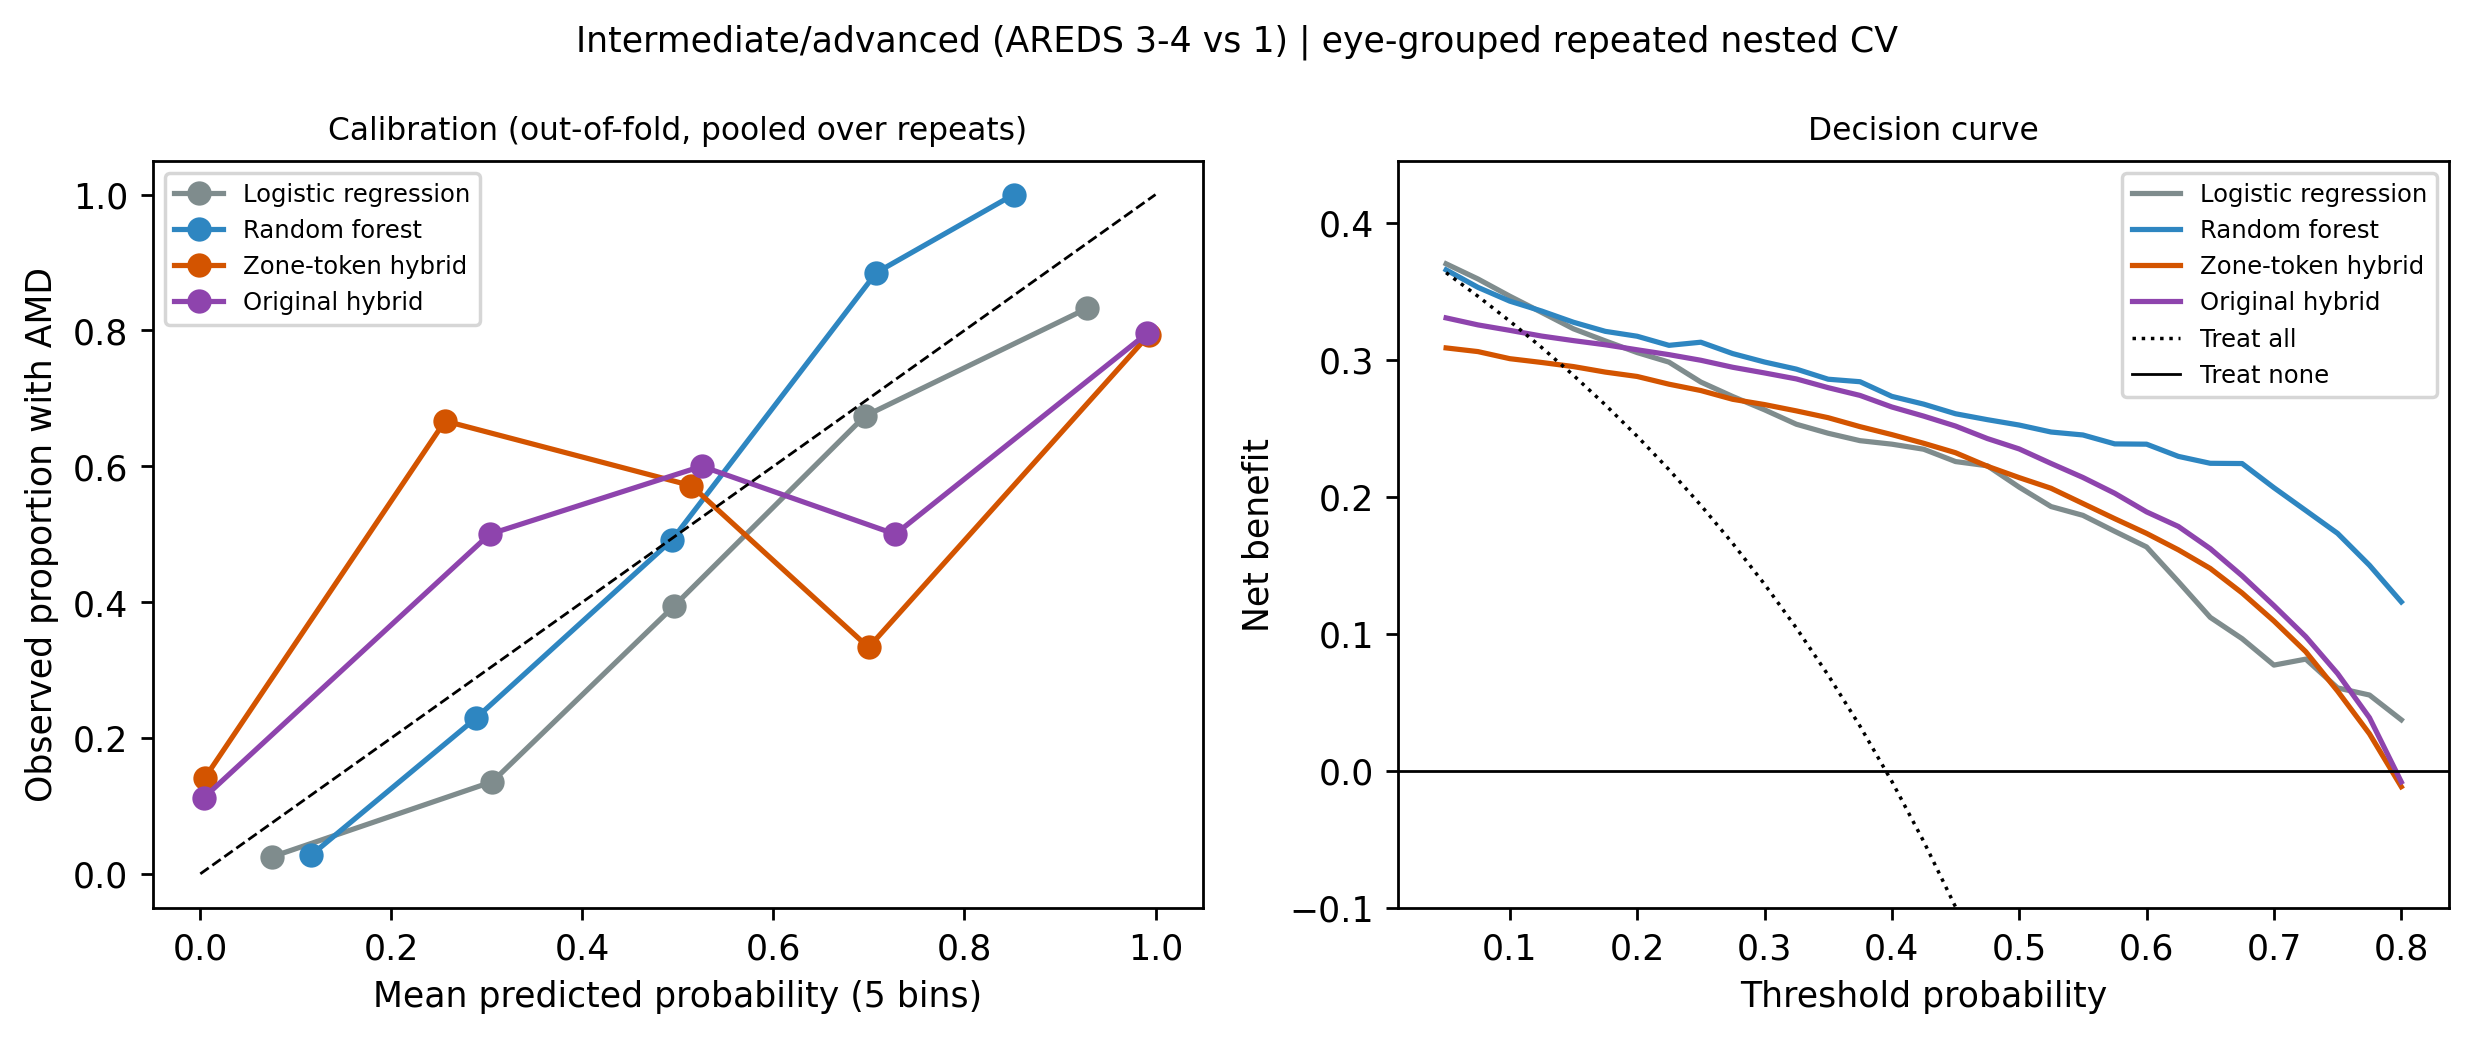
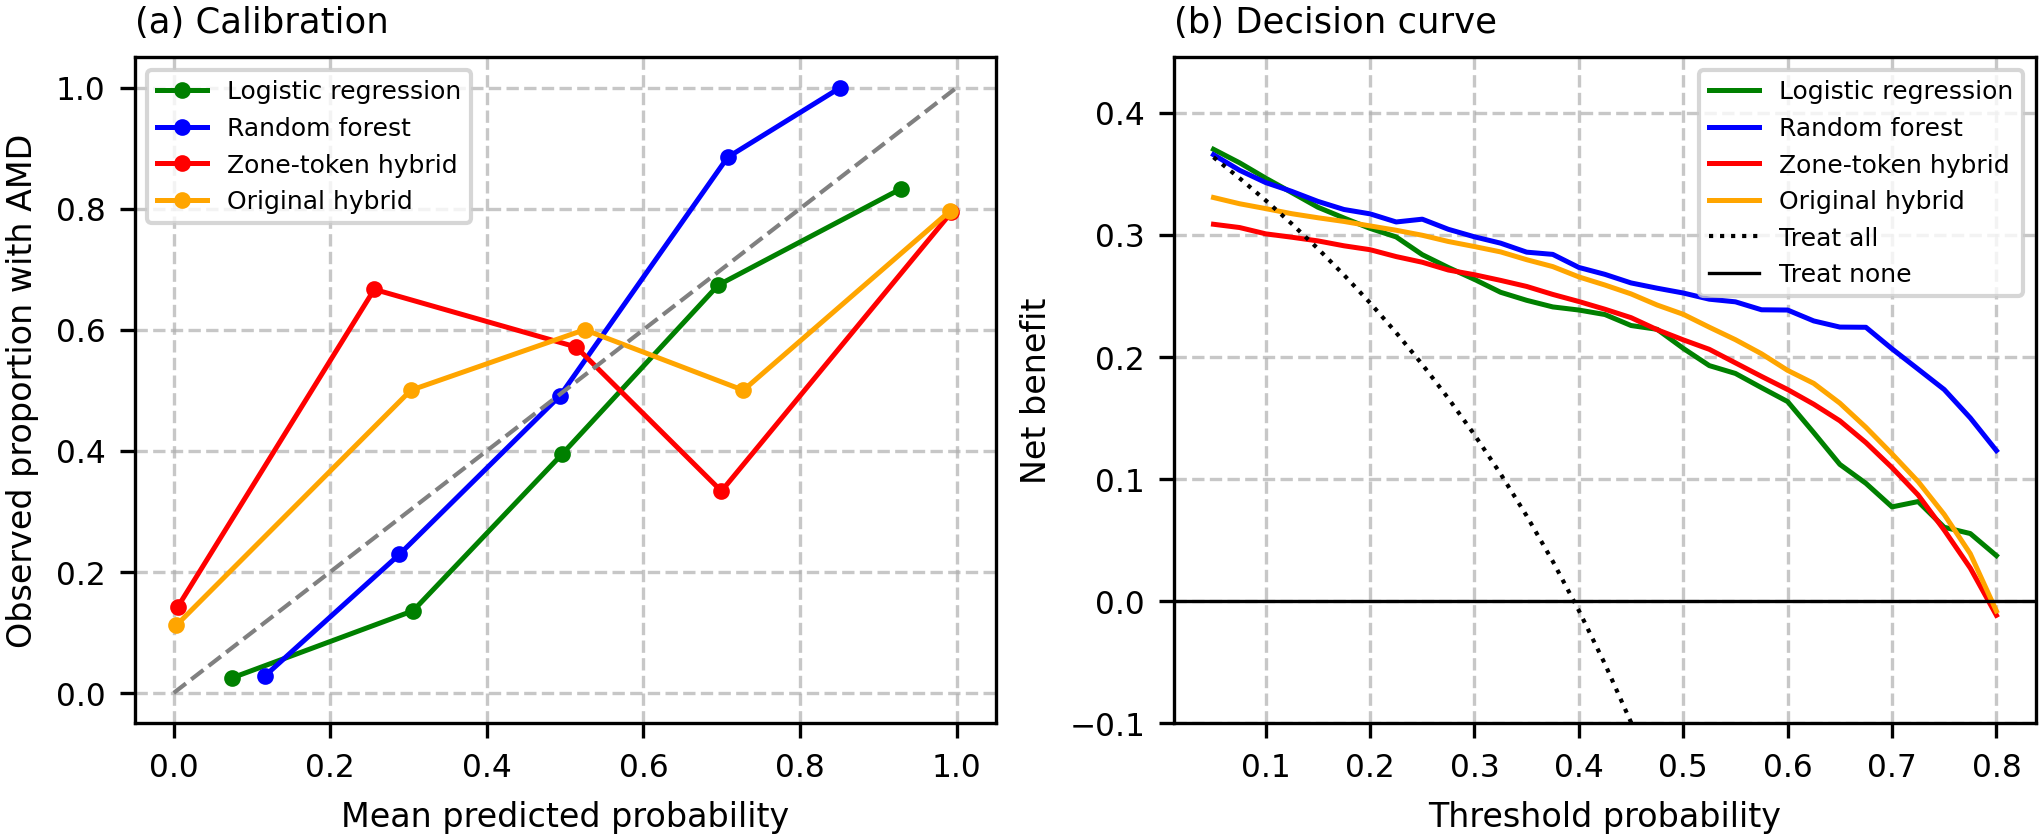
styled figures

diff --git a/share/run_20261012/calibration/CAL_REPORT.md b/share/run_20261012/calibration/CAL_REPORT.md
@@ -6,21 +6,21 @@ Slope < 1 = predictions too extreme (overfitting); intercept != 0 = systematic o
 
 | task | grouping | model | Brier | scaled Brier | slope (ideal 1) | intercept (ideal 0) | dBrier vs RF |
 |---|---|---|---|---|---|---|---|
-| advanced | eye | Logistic regression | 0.143 [0.096, 0.191] | 0.40 [0.13, 0.59] | 1.03 [0.71, 1.85] | -0.62 [-1.40, 0.14] | 0.034 [-0.005, 0.074] |
-| advanced | eye | Random forest | 0.109 [0.074, 0.148] | 0.55 [0.37, 0.68] | 2.05 [1.51, 3.44] | 0.01 [-0.55, 0.59] | - |
-| advanced | eye | Zone-token hybrid | 0.169 [0.104, 0.243] | 0.29 [-0.05, 0.53] | 0.23 [0.16, 0.37] | -2325996.81 [-170882070.91, 97654879.37] | 0.060 [0.013, 0.111] |
-| advanced | eye | Original hybrid | 0.151 [0.093, 0.217] | 0.37 [0.06, 0.61] | 0.17 [0.13, 0.26] | -2325475.02 [-98029583.52, 47221577.32] | 0.042 [-0.000, 0.089] |
-| advanced | subject | Logistic regression | 0.177 [0.129, 0.230] | 0.26 [-0.02, 0.46] | 0.84 [0.55, 1.52] | -0.59 [-1.41, 0.16] | 0.046 [0.001, 0.089] |
-| advanced | subject | Random forest | 0.131 [0.093, 0.175] | 0.45 [0.26, 0.60] | 1.67 [1.20, 2.87] | 0.06 [-0.54, 0.68] | - |
-| advanced | subject | Zone-token hybrid | 0.197 [0.129, 0.276] | 0.18 [-0.17, 0.44] | 0.20 [0.13, 0.31] | 0.73 [-90645436.14, 86722233.43] | 0.066 [0.013, 0.122] |
-| advanced | subject | Original hybrid | 0.212 [0.139, 0.290] | 0.11 [-0.26, 0.40] | 0.12 [0.09, 0.20] | -0.10 [-88372206.95, 43799776.31] | 0.081 [0.027, 0.141] |
-| any | eye | Logistic regression | 0.239 [0.205, 0.280] | 0.03 [-0.18, 0.16] | 0.55 [0.15, 1.18] | 0.21 [-0.40, 0.86] | 0.022 [0.004, 0.041] |
-| any | eye | Random forest | 0.217 [0.185, 0.252] | 0.12 [-0.05, 0.24] | 1.06 [0.35, 2.13] | 0.06 [-0.48, 0.63] | - |
-| any | eye | Zone-token hybrid | 0.391 [0.324, 0.462] | -0.58 [-0.97, -0.33] | 0.04 [-0.01, 0.10] | 0.85 [-2.58, 4.05] | 0.173 [0.129, 0.223] |
-| any | eye | Original hybrid | 0.341 [0.262, 0.430] | -0.38 [-0.81, -0.09] | 0.06 [0.02, 0.11] | 0.20 [-5.93, 21008227.41] | 0.124 [0.064, 0.192] |
-| any | subject | Logistic regression | 0.257 [0.214, 0.302] | -0.04 [-0.27, 0.12] | 0.32 [0.06, 0.70] | 0.17 [-0.53, 0.89] | 0.026 [-0.003, 0.058] |
-| any | subject | Random forest | 0.230 [0.201, 0.259] | 0.07 [-0.09, 0.17] | 0.90 [0.25, 1.75] | 0.05 [-0.47, 0.63] | - |
-| any | subject | Zone-token hybrid | 0.401 [0.328, 0.477] | -0.62 [-0.98, -0.36] | 0.04 [-0.01, 0.10] | -0.66 [-4.03, 2.72] | 0.171 [0.121, 0.227] |
-| any | subject | Original hybrid | 0.397 [0.309, 0.484] | -0.61 [-1.00, -0.29] | 0.03 [-0.01, 0.08] | -1.81 [-24928719.78, 17241597.88] | 0.167 [0.101, 0.234] |
+| advanced | eye | Logistic regression | 0.139 [0.097, 0.190] | 0.42 [0.14, 0.59] | 0.89 [0.65, 1.75] | -0.59 [-1.36, 0.14] | 0.034 [-0.005, 0.074] |
+| advanced | eye | Random forest | 0.110 [0.074, 0.149] | 0.54 [0.37, 0.68] | 2.01 [1.49, 3.38] | 0.01 [-0.55, 0.59] | - |
+| advanced | eye | Zone-token hybrid | 0.162 [0.097, 0.242] | 0.32 [-0.03, 0.57] | 0.26 [0.18, 0.40] | -1.37 [-4.35, 3.56] | 0.060 [0.013, 0.111] |
+| advanced | eye | Original hybrid | 0.146 [0.088, 0.215] | 0.39 [0.06, 0.62] | 0.28 [0.21, 0.40] | -0.38 [-4.09, 3.39] | 0.042 [-0.000, 0.089] |
+| advanced | subject | Logistic regression | 0.174 [0.125, 0.225] | 0.27 [-0.01, 0.48] | 0.76 [0.48, 1.39] | -0.52 [-1.34, 0.16] | 0.046 [0.001, 0.089] |
+| advanced | subject | Random forest | 0.129 [0.091, 0.175] | 0.46 [0.26, 0.61] | 1.67 [1.19, 2.89] | 0.04 [-0.56, 0.68] | - |
+| advanced | subject | Zone-token hybrid | 0.197 [0.127, 0.276] | 0.18 [-0.19, 0.46] | 0.23 [0.16, 0.34] | 1.49 [-4.24, 3.99] | 0.066 [0.013, 0.122] |
+| advanced | subject | Original hybrid | 0.217 [0.139, 0.300] | 0.09 [-0.29, 0.39] | 0.20 [0.14, 0.30] | 0.30 [-4.50, 3.87] | 0.081 [0.027, 0.141] |
+| any | eye | Logistic regression | 0.238 [0.199, 0.277] | 0.04 [-0.17, 0.19] | 0.53 [0.09, 1.14] | 0.24 [-0.37, 0.85] | 0.022 [0.004, 0.041] |
+| any | eye | Random forest | 0.218 [0.185, 0.252] | 0.12 [-0.06, 0.24] | 1.05 [0.37, 2.11] | 0.06 [-0.47, 0.64] | - |
+| any | eye | Zone-token hybrid | 0.393 [0.325, 0.467] | -0.59 [-1.00, -0.34] | 0.05 [-0.01, 0.11] | 0.78 [-2.60, 3.76] | 0.173 [0.129, 0.223] |
+| any | eye | Original hybrid | 0.340 [0.256, 0.431] | -0.38 [-0.82, -0.06] | 0.10 [0.03, 0.17] | 0.22 [-4.17, 4.53] | 0.124 [0.064, 0.192] |
+| any | subject | Logistic regression | 0.254 [0.212, 0.300] | -0.03 [-0.26, 0.13] | 0.24 [0.04, 0.56] | 0.17 [-0.51, 0.89] | 0.026 [-0.003, 0.058] |
+| any | subject | Random forest | 0.226 [0.198, 0.257] | 0.09 [-0.07, 0.18] | 0.94 [0.28, 1.83] | 0.07 [-0.46, 0.64] | - |
+| any | subject | Zone-token hybrid | 0.393 [0.325, 0.472] | -0.59 [-0.99, -0.34] | 0.06 [-0.02, 0.11] | -0.64 [-3.81, 2.93] | 0.171 [0.121, 0.227] |
+| any | subject | Original hybrid | 0.398 [0.302, 0.487] | -0.61 [-1.00, -0.26] | 0.06 [-0.01, 0.13] | -1.94 [-4.68, 3.06] | 0.167 [0.101, 0.234] |
 
 Figures: calibration_dca_<task>_<grouping>.png

diff --git a/share/run_20261012/results_pack/RESULTS_PACK.md b/share/run_20261012/results_pack/RESULTS_PACK.md
@@ -20,19 +20,18 @@
 - Pre-specified primary (RF, Any AMD (AREDS 2-4 vs 1)): adding OFA to MPOD dAUC -0.019 [-0.041 to +0.001] (no difference detected)
 - Pre-specified primary (RF, Intermediate/advanced (AREDS 3-4 vs 1)): adding OFA to MPOD dAUC -0.005 [-0.014 to +0.003] (no difference detected)
 
-## Manuscript mapping
-| Manuscript item | Replace with |
+## Manuscript mapping (all figures share src/figstyle.py)
+| Manuscript item | File |
 |---|---|
-| Abstract / Results numbers | Key numbers above, T1 |
-| Table 3 (holdout performance) | tables/T1_performance |
-| Table A2 (feature indexing) + Fig 3b | tables/T2_feature_sets + figures/F_feature_sets.png |
-| Table A3 (DL models) | tables/T4_models + T1 rows for the hybrids |
-| Table A4 (multiclass) | stage-specific rows of T1 (early / advanced) |
-| Fig 1 middle/right, Fig A3 'final' SHAP panel | figures/F_zone_overall_advanced_rf_circular_linear/log.png |
-| Fig 3a (normalisation x sampling) | removed (experiment on the earlier data export) |
-| Fig 4a / 4b / 4c / 4d | figures/SHAP_advanced_rf_group_importance / ring_averaged / zone_maps_circular_linear / _log |
-| Fig 5 (iterative exclusion) + Figs A4-A6 | figures/F_leave_one_group_out.png + tables/T3 (supplement) |
-| Fig 6 (local explanations) | figures/SHAP_advanced_rf_local_examples.png |
-| Fig A1 (architecture) | redraw for the zone-token hybrid (T4 row) |
-| Fig A2 (ROC) | figures/F_roc_any.png, figures/F_roc_early.png, figures/F_roc_advanced.png |
-| Supplementary (optional) | figures/S_univariate_stage_ring_heatmap.png; hybrid SHAP: figures/SHAP_*_hybrid_zone_* |
+| Fig 1 middle/right | figures/Fig1_zone_importance_circular.png |
+| Fig 3 (replaces 3a + 3b) | figures/Fig3_performance_ablation.png |
+| Fig 4a / 4b / 4c / 4d | figures/Fig4a_group_importance / Fig4b_ring_averaged / Fig4c_zone_maps_linear / Fig4d_zone_maps_log |
+| Table 3 | tables/T1_performance |
+| Appendix: ROC (A2) | figures/FigA2_roc_any.png, figures/FigA2_roc_early.png, figures/FigA2_roc_advanced.png |
+| Appendix: focus-group final panel (A3) | figures/FigA3_zone_importance_square.png |
+| Appendix: local explanations (old Fig 6) | figures/FigA_local_explanations.png |
+| Appendix: leave-one-group-out (old Fig 5) | figures/FigA_leave_one_group_out.png + tables/T3 |
+| Appendix: calibration + decision curves | figures/FigA_calibration_dca_*.png + tables/TA7_calibration.csv |
+| Appendix: age comparisons | tables/TA6_age_comparisons.csv |
+| Appendix: hybrid / any-AMD SHAP, square maps, univariate heatmap | figures/FigA_SHAP_*, FigA_univariate_stage_ring_heatmap.png |
+| Tables A2 / A3 / A5 | tables/T2_feature_sets / T4_models / T3_ofa_value_paired |
